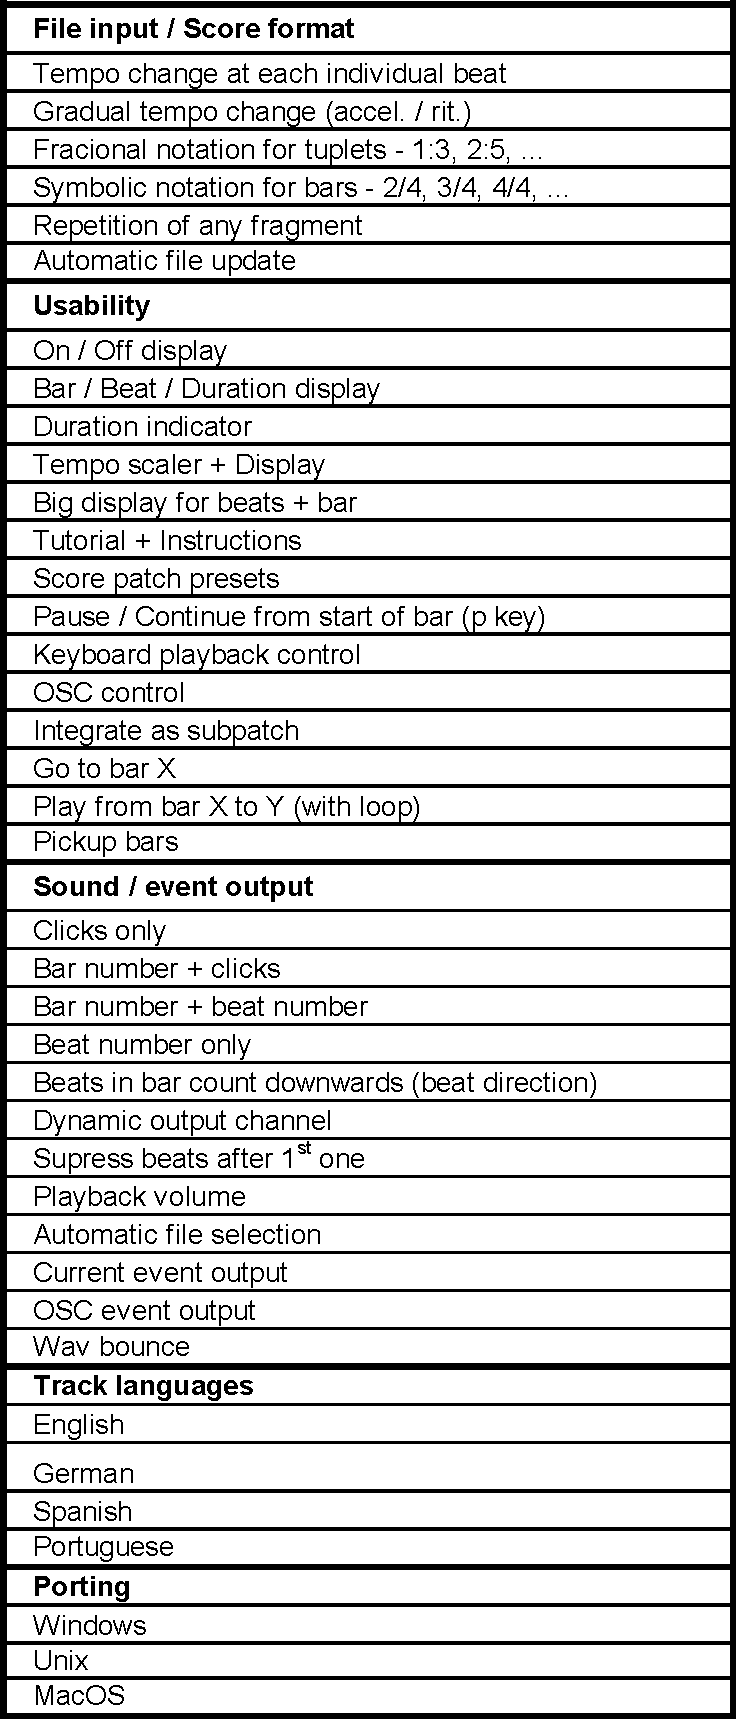
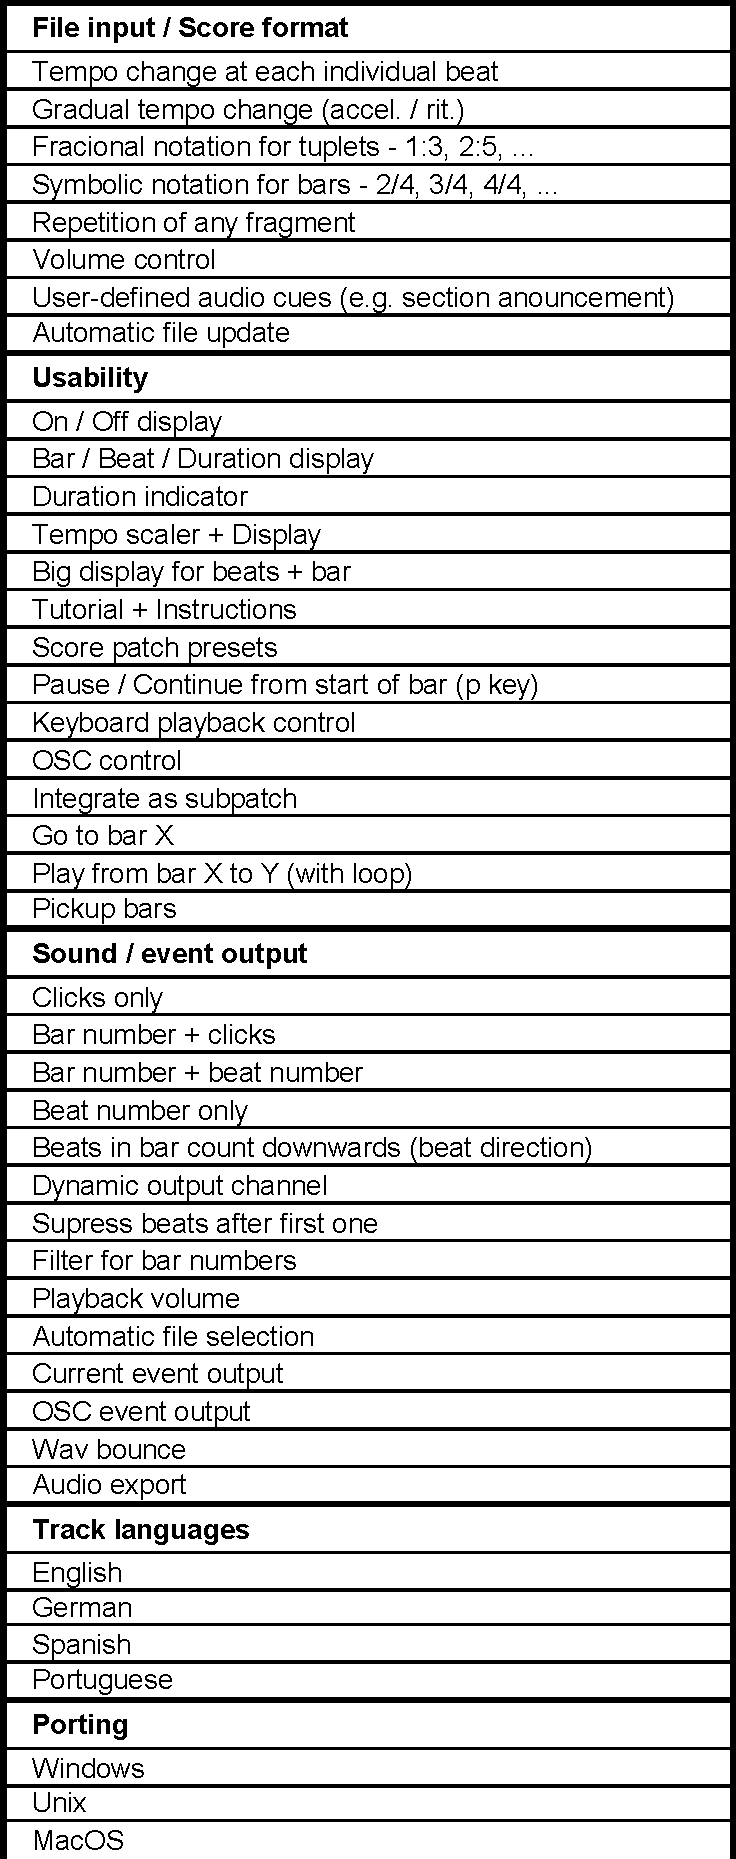
versao 1.6

Changed region(s): [[0.0, 0.0, 1.0, 1.0]]

diff --git a/index.html b/index.html
@@ -18,12 +18,12 @@
     <div class="wrapper">
       <header>
         <h1 class="header">Click Tracker</h1>
-        <p class="header">Click Tracker is a generator of click tracks. It is designed for composers, conductors and instrumentalists working with modern music.</p>
+        <p class="header">Click Tracker is a click track designer. It was created for composers, instrumentalists and conductors working with modern music.</p>
         <ul>
           <a class="buttons" href="#donations">Price/Donations</a><br>
           <a class="buttons" href="#testimonials">Users/Testimonials</a><br>
           <a class="buttons" href="#development">Development</a><br>
-          <a class="buttons" href="#repository">Score repository</a><br>
+          <!--<a class="buttons" href="#repository">Score repository</a><br>-->
           <a class="buttons" href="#license">License</a><br>
           <a class="buttons" href="#download">Download/Installation</a><br>
           <a class="buttons" href="#tutorial">Tutorial</a><br>
@@ -40,7 +40,7 @@
 <a id="click-tracker-software" class="anchor" href="http://j.mp/click-tracker" aria-hidden="true"><span aria-hidden="true" class="octicon octicon-link"></span></a>Click Tracker</h1>
 <p><strong>Click Tracker</strong> is a program designed for composers, conductors and instrumentalists working with modern music. The main goal of the software is to prepare a click track of any score, no matter how complex it is.</p>
 <center><img src="images/click-tracker.png"></center>
-<p>This software runs in Windows, OSX and Linux under the open source program Pure Data, and can be used either by conductors in concert, by musicians for practice purposes, by composers while composing.</p>
+<p>This software runs in Windows, macOS and Linux under the open source program Pure Data, and can be used either by conductors in concert, by musicians for practice purposes, by composers while composing.</p>
 <p>To prepare a score, just input the values in a plain text file format (.txt) according to the syntax explained in the tutorial online, or sent with the program.</p>
 
 
@@ -52,7 +52,7 @@
 <input type="image" src="https://www.paypalobjects.com/en_US/i/btn/btn_donate_SM.gif" border="0" name="submit" alt="Donate to Click Tracker">
 <img alt="" border="0" src="https://www.paypalobjects.com/de_DE/i/scr/pixel.gif" width="1" height="1">
 </form>
-<p>In order to make its development possible, a <strong>one-time donation</strong> is suggested. For professional musicians I would suggest 50 EUR, for students 25 EUR - of course, you can donate more or less than that. Keep in mind that if you use this program regularly, it will save much rehearsal and learning time. And also, that for the program to reach this stage of development, many hours of work were invested into it.<br>
+<p>In order to make its development possible, a <strong>one-time donation</strong> is suggested. For professional musicians I would suggest 50 EUR, for students 25 EUR - of course, you can donate more or less than that. Keep in mind that if you use this program regularly, it will save much rehearsal and learning time. And also, for the program to reach this stage of development, many hours of work were invested into it.<br>
 Donations can be easily made through <a href="https://www.paypal.me/jmmmp/50">PAYPAL</a>. Bank transfers to a german account are also possible (<a href="mailto:jmmmpais@gmail.com?subject=Click%20Tracker%20Donation">contact me</a> for details).<br>
 An invoice can be written for donations.</p>
 <h4>Former sponsors</h4>
@@ -65,7 +65,7 @@ An invoice can be written for donations.</p>
 
 <h2>
 <a id="testimonials" class="anchor" href="#testimonials" aria-hidden="true"><span aria-hidden="true" class="octicon octicon-link"></span></a>Users and testimonials</h2>
-<p>The Click Tracker is used by instrumentalists, conductors and composers such as: Anna D'Errico, Carl Ludwig Hübsch, Haakon Stene, Matteo Cesari, Pavlos Antoniadis, Stefan Prins, Jack Quartet, and the ensembles Asamisimasa, Nadar, Interface and loadbang.<br>
+<p>The Click Tracker is used by instrumentalists, conductors and composers such as: Anna D'Errico, Carl Ludwig Hübsch, Haakon Stene, Matteo Cesari, Pavlos Antoniadis, Stefan Prins, Jack Quartet, and the ensembles Asamisimasa, Nadar, Interface, loadbang and Schlagquartett Köln.<br>
 This is what some users have to say about the software:</p>
 <blockquote>The Click Tracker is an essential tool for the new generation of musicians. It allows the cautious interpreter to master the intricacy of time structures at ease.</blockquote>
 <qauthor><a href="http://www.matteocesari.com/" target="_blank">Matteo Cesari</a>&ensp;flutist</qauthor>
@@ -93,15 +93,16 @@ I would definitely recommend it: its friendly and simple interface allows a perf
 
 <h2>
 <a id="development" class="anchor" href="#development" aria-hidden="true"><span aria-hidden="true" class="octicon octicon-link"></span></a>Further development and feature commissioning</h2>
-<p>I'm searching for any support (residencies, grants, etc.), that would allow me to dedicate more time to make this program more complete. These features include not just improvements in the existing possibilities, but also new techniques of input, control and performance, which will make it an even better learning, performance and composition tool. You can consult the list of <a href="#feature">current and planned features</a>.<br>
+<p>I'm searching for any support (residencies, grants, etc.), that would allow me to dedicate time to make this program more complete. These features include not just improvements in the existing possibilities, but also new techniques of input, control and performance, which will make it an even better learning, performance and composition tool. You can consult the list of <a href="#feature">current and planned features</a>.<br>
 If you know any institution / ensemble / individual that could be interested in supporting the further development of this program &ndash; or in comissioning any specific features &ndash; please <a href="mailto:jmmmpais@gmail.com?subject=Click%20Tracker%20new%20features">contact me</a>. Or if you want me to program a specific feature with your ideas, ask me for a quote.<br>
 Every individual or group contributing to the development of this program will be mentioned in future versions.</p>
 
 
+<!--
 <h2>
 <a id="repository" class="anchor" href="#repository" aria-hidden="true"><span aria-hidden="true" class="octicon octicon-link"></span></a>Online score repository</h2>
 <p>I'm starting to create a repository of the transcribed pieces, so that they can be put online for anyone to download. In that way everyone can see which pieces have already been transcribed, and doesn't have to repeat the work himself. If you want to send any files to me, they'll be added to this list.</p>
-
+-->
 
 <h2>
 <a id="license" class="anchor" href="#license" aria-hidden="true"><span aria-hidden="true" class="octicon octicon-link"></span></a>License and distribution</h2>
@@ -113,16 +114,16 @@ If you wish to do commercial work with this software, please <a href="mailto:jmm
 
 <h2>
 <a id="download" class="anchor" href="#download" aria-hidden="true"><span aria-hidden="true" class="octicon octicon-link"></span></a>Download and installation</h2>
-<p><a href="http://bit.ly/clicktracker15b">CLICK HERE</a> to download version 1.5.<br>
+<p><a href="http://bit.ly/clicktracker16">CLICK HERE</a> to download version 1.6.<br>
 If you want to be informed of new versions, please <a href="mailto:jmmmpais@gmail.com?subject=Click%20Tracker%20mailing%20list">send me your contact</a>.</p>
 <h4>How to install and run the Click Tracker patch</h4>
-<p><strong>1 &ndash; Install and test Pure Data Extended</strong><br>
-The software runs with Pure Data-Extended (Pd for short), which you must install first. Pure Data is a free software for live electronics. Follow these steps to install and test the software:<br>
+<p><strong>1 &ndash; Install and test Pure Data</strong><br>
+The software runs with Pure Data (Pd for short), which you must install first. Pure Data is a free software for live electronics. Follow these steps to install and test the software:<br>
 <ul>
-<li>download the release of <a href="http://puredata.info/downloads/pd-extended">Pd-Extended</a> that fits your system (the program only works with Pd-Extended)</li>
-<li>install the program and start it, the window “Pd-extended” will appear</li>
+<li>download the <strong>32 bit release</strong> of <a href="http://puredata.info/downloads/pure-data">Pure Data</a>. (Do not install the 64 bit version)</li>
+<li>install the program and start it, the window “Pd” will appear</li>
 <li>go to the menu Media -> "Test Audio and MIDI"</li>
-<li>in the new window, on the left side under "TEST TONES", try clicking on the values “80” or “60” (volume values in decibels). You should hear a sine tone at 440 Hz (A).</li>
+<li>on the left side under "TEST TONES", try clicking on the values “80” or “60” (volume values in decibels). You should hear a sine tone at 440 Hz (A).</li>
 <li>if this happened, everything is ok. If not, maybe you need to setup your audio (Media -> Audio settings), or there is another problem.</li>
 </ul>
 If you have difficulties getting Pd to work, feel free to <a href="mailto:jmmmpais@gmail.com?subject=Click%20Tracker%20Pd%20help">contact me</a> &ndash; I'll try to help as much as I can.</p>
@@ -145,10 +146,10 @@ In the same folder you can find other score excerpts by Stravinsky, Boulez, Stoc
 <p>This is a tutorial on how to prepare a score for the Click Tracker patch. At the same time it should teach you on how to use the program.<br>
 The Click Tracker reads documents in text format (.txt). For that they should be saved as text-only format &ndash; in case you use Word or any other office software you should pay attention to this.<br>
 To reproduce a piece with the Click Tracker you must transcribe the score you want to hear to the format readable by this program &ndash; basically you must write down the metrical structure of the score.<br>
-The following score will be coded in the tutorial. You can find it under examples/score-tutorial.txt.</p>
+The following score will be coded in the tutorial. You can find it under <strong>examples/score-tutorial.txt</strong>.</p>
 <center><img src="images/score-tutorial.png"></center>
 
-<h4>NOTATING BEATS / BARS / TEMPO / COMMENTS</h4>
+<h4>ADDING BEATS / BARS / TEMPO / COMMENTS</h4>
 <p>You start the score by writing the duration of each beat in one line &ndash; for example 1 for a full beat. There are 2 possible parameters: the beat duration and the letter "b" to mark the beginning of a bar &ndash; separated by a space.<br>
 For example here are the first two 4/4 bars of this score. Bars 1+2:</p>
 <pre><code>t 60
@@ -228,36 +229,31 @@ The options that you saw until now allow you to notation quite complex durations
 1</code></pre>
 <p>Also the y number always understands the 4th-note to be the standard duration. In case you're writing a score where another value is the base value for the tempo (for example 8th-note or minim) then you must do some math to get the proportions right. Always think of the beats as individual durations one after the other.</p>
 
-<h4>GRADUAL TEMPO CHANGES</h4>
+<h4>GRADUAL TEMPO CHANGES and VOLUME CHANGES</h4>
 <p>To change the tempo suddenly we already saw the t command. But to create gradual tempo changes &ndash; accelerandi and ritardandi &ndash; use the command "tc x y" where x is the new tempo and y the number of beats necessary to reach it. The beat duration of the tempo change MUST coincide with the sum of the beats it lasts: for example, if it lasts 1+1+0.75 beats, the result is 2.75.<br>
+The "vol x" command scales the loudness of the click so that it fits with the musical content. Values between 0 and 10 are accepted. The scaling is independent of the main output's volume level. If no value is given the score sets to 10.<br>
 Here is a 4/4 bar followed by an accelerando with 1 bar duration and one bar in the new tempo. Bar 17:</p>
-<pre><code>1 b
-1
-1
-1</code></pre>
-<p>here is the tempo change command &ndash; always write them before the first tempo change</p>
-<pre><code>tc 120 4</code></pre>
+<pre><code>4/4</code></pre>
+<p>Here is the tempo change command &ndash; always write them before the first tempo change. At the same time the volume goes slightly down.</p>
+<pre><code>tc 120 4
+vol 7</code></pre>
 <p>the accelerando starts here</p>
-<pre><code>1 b 
-1
-1
-1</code></pre>
-<p>and now we're in the new tempo</p>
-<pre><code>1 b
-1
-1
-1</code></pre>
+<pre><code>4/4</code></pre>
+<p>and now we're in the new tempo. The volume goes lower.</p>
+<pre><code>vol 4
+4/4</code></pre>
 <p>And now it slows down to slower as the initial tempo. Bar 20:</p>
 <pre><code>tc 50 4</code></pre>
 <p>here starts to get slower</p>
-<pre><code>1 b 
+<pre><code>4/4</code></pre>
+<p>and now is at MM50. The volume goes up on each beat until it gets back to the maximum.</p>
+<pre><code>vol 5
+1 b
+vol 7
 1
+vol 8
 1
-1</code></pre>
-<p>and now is at MM50</p>
-<pre><code>1 b 
-1
-1
+vol 100
 1</code></pre>
 
 <h4>REPETITIONS</h4>
@@ -282,8 +278,17 @@ rep 2.5 4
 1 b
 1
 .5</code></pre>
-<p>And finally the full bar one last time.</p>
-<pre><code>1 b
+
+<h4>CUES</h4>
+<p>Cues can be added using the syntax "cue x" - where x is the cue number.</p>
+<pre><code>cue 1
+1 b
+1
+.5
+1 b</code></pre>
+
+<p>Place the cue before any beat you want to mark. See further details below.</p>
+<pre><code>cue 2
 1
 .5</code></pre>
 
@@ -298,15 +303,32 @@ As pickup bars aren't exactly repetitions and you must know exactly when the pie
 <h4>BEAT COUNTING DIRECTION</h4>
 <p>With the command "direction up" or "direction down" you can define if the beats inside a bar are counted upwards or downwards. If no command is used the standard value is "up". This can be set anytime in the patch using the button "beat.dir".</p>
 
+<h4>BAR FILTER</h4>
+<p>Use the buttons under "Bar.Flt" to define how many bars sound the spoken: all / every 5 bars / every 10 bars. This can be helpful in very dense tracks.<br>
+You can also define the setting in your score using the command "bar-filt x" and the number 0 / 1 / 2 for the settings mentioned above:
+<pre><code>bar-filt 0</code></pre>
+</p>
+
+<h4>CUES</h4>
+<p>You can prepare your own audio cues to be added to the click track. These must follow the following conventions:<br>
+<ul>
+<li>store them in a folder named "cues" in the same place as the score file &ndash; see the examples folder.</li>
+<li>format them as mono / wav / 16b / 44.1KHz</li>
+<li>name them as whole numbers starting from 1: 1.wav / 2.wav / 3.wav / etc.</li>
+<li>use the same name to add them to the score: "cue 1" / "cue 2" / "cue 3" / etc.</li>
+</ul>
+As long as all previous conditions are met you can use any audio content in your cue files. If a cue isn't found you'll see an error message such as "cue1.wav not found".
+</p>
+
 <h4>DEFINITION OF PLAYBACK PARAMETERS</h4>
 <p>You can adjust the playback parameters (click format &ndash; language &ndash; recording format) anytime while working with the patch. But you can also adjust them in the score file. Then you don't need to always reset your patch when you load a new score (assuming each score has a different setting). To set a parameter you just write the command "par [parameters]" anywhere in the score. But like with the pickup command I advise you to put these general remarks in the beginning. Note: if you write down more than one command for the same parameter then the last command is the one to be valid.<br>
 The available parameters are:<br>
-click format &ndash; click / voice + click / voice / voice + bar  =  cl clst st stbb<br>
+click format &ndash; click / voice + click  =  cl clst<br>
 language &ndash; english / german / spanish /portuguese  =  english deutsch espanol portugues<br>
 For example to have a click track performed with clicks you write</p>
 <pre><code>par cl</code></pre>
-<p>To have a score performed with voice in portuguese you write</p>
-<pre><code>par st portugues</code></pre>
+<p>To have a score performed with click and voice in portuguese you write</p>
+<pre><code>par clst portugues</code></pre>
 <p>The standard format is voice + click / english. Since there were some other commands before let's set it back to the standard preset.</p>
 <pre><code>par clst english</code></pre>
 
@@ -333,7 +355,8 @@ The Click Tracker's GUI offers the following possibilities (keyboard shortcuts a
 <strong>Tempo scaler</strong> &ndash; if a piece is too fast or slow for you to follow you can just change the scaling factor in the interface. Both original and scaled tempi are shown.<br>
 <strong>1st beat</strong> &ndash; Mute other beats besides the 1st one in each bar.<br>
 <strong>Loop</strong> &ndash; loops from current bar to the bar indicated in "Loop to"<br>
-<strong>Voume meter + volume level</strong> &ndash; self explanatory<br>
+<strong>Volume</strong> &ndash; Volume as defined in the score<br>
+<strong>Output volume meter + volume level</strong> &ndash; self explanatory<br>
 <strong>Beat.dir</strong> &ndash; changes beat counting direction up or downwards<br>
 <strong>Display</strong> &ndash; shows large window with beat + bar numbers</p>
 <strong>Keyboard Control</strong> &ndash; It is possible to control the patch using the keyboard shortcuts (these were just indicated). You can turn this on/off with the Escape key. If the box is crossed keyboard control is on.<br>
@@ -345,7 +368,9 @@ The Click Tracker's GUI offers the following possibilities (keyboard shortcuts a
 <strong>$1:$2</strong> &ndash; fractional notation for the duration of beats &ndash; Eg. 2:3<br>
 <strong>$1/$2</strong> &ndash; abreviated input of regular bars &ndash; Eg. 3/4<br>
 <strong>tc $1 $2</strong> &ndash; tempo change. $1 = new tempo / $2 = number of beats necessary to reach it (beat duration of the tempo change MUST coincide with the sum of the beats it lasts) &ndash; Eg. tc 120 5<br>
+<strong>vol $1</strong> &ndash; volume between 0 and 10 &ndash; Eg. vol 8<br>
 <strong>rep $1 $2</strong> &ndash; repetition of a fragment. $1 = number of beats to repeat / $2 = number of times to repeat &ndash; Eg. rep 4 3<br>
+<strong>cue $1</strong> &ndash; play audio cue $1.wav &ndash; Eg. cue 1<br>
 <strong>pickup $1</strong> &ndash; pickup bar repeats the 1st bar $1 times (bar numbers decrease from $1+1 to 1) &ndash; Eg. pickup 2<br>
 <strong>first $1</strong> &ndash; number of the first bar of the score &ndash; Eg. first 35<br>
 <strong>par&ensp;cl/clst/st/stbb&ensp;english/deutsch/espanol/portugues</strong> &ndash; playback parameters<br>
@@ -360,7 +385,8 @@ The Click Tracker's GUI offers the following possibilities (keyboard shortcuts a
 <strong>l</strong> &ndash; reload score<br>
 <strong>space</strong> &ndash; play/stop<br>
 <strong>p</strong> &ndash; play from last active bar<br>
-<strong>f</strong> &ndash; set output file<br>
+<strong>e</strong> &ndash; export audio file<br>
+<strong>f</strong> &ndash; set output file for recording<br>
 <strong>r</strong> &ndash; play + record<br>
 <strong>Esc</strong> &ndash; turn keyboard control on/off</p>
 See the <a href="#afeature">Advanced Features</a> section for details on other features.
@@ -371,14 +397,14 @@ See the <a href="#afeature">Advanced Features</a> section for details on other f
 <p>Here are the current list of programmed features and features to program. If any of these interest you, you can <a href="#development">commission</a> them &ndash; or any other suggestions you might have.</p>
 <h4>Programmed features</h4>
 <!-- images 50% size -->
-<center><img src="images/features-prog.png" width="368" height="852"></center>
+<center><img src="images/features-prog.png" width="368" height="930"></center>
 <h4>Features to program</h4>
-<center><img src="images/features-unprog.png" width="368" height="704"></center>
+<center><img src="images/features-unprog.png" width="370" height="633"></center>
 
 
 <h2>
 <a id="afeature" class="anchor" href="#afeature" aria-hidden="true"><span aria-hidden="true" class="octicon octicon-link"></span></a>Advanced Features</h2>
-You can find an example patch with the following features in <strong>examples/tutorial-subpatch osc.pd</strong>.
+These features are designed for Pure Data programmers. You can find an example patch with the following features in <strong>examples/tutorial-subpatch osc.pd</strong>.
 
 <h3>Setting channel output</h3>
 <p>The audio output is set by default to channels 1 and 2. To change this setting use the command "audiooutput $1 $2 ..." or edit the output window. The parameters are the output channels from 1 to 32 - as many as necessary.</p>
@@ -414,7 +440,7 @@ You can setup the OSC parameters in your score. For that, use the following comm
 
 
 <p>For more informations/requests <a href="mailto:jmmmpais@gmail.com?subject=Click%20Tracker%20questions">contact me</a>.</p>
-<p><strong>&copy; João Pais  01.04.2018</strong></p>
+<p><strong>&copy; João Pais  27.12.2018</strong></p>
 
     </div>
     <!--[if !IE]><script>fixScale(document);</script><![endif]-->
